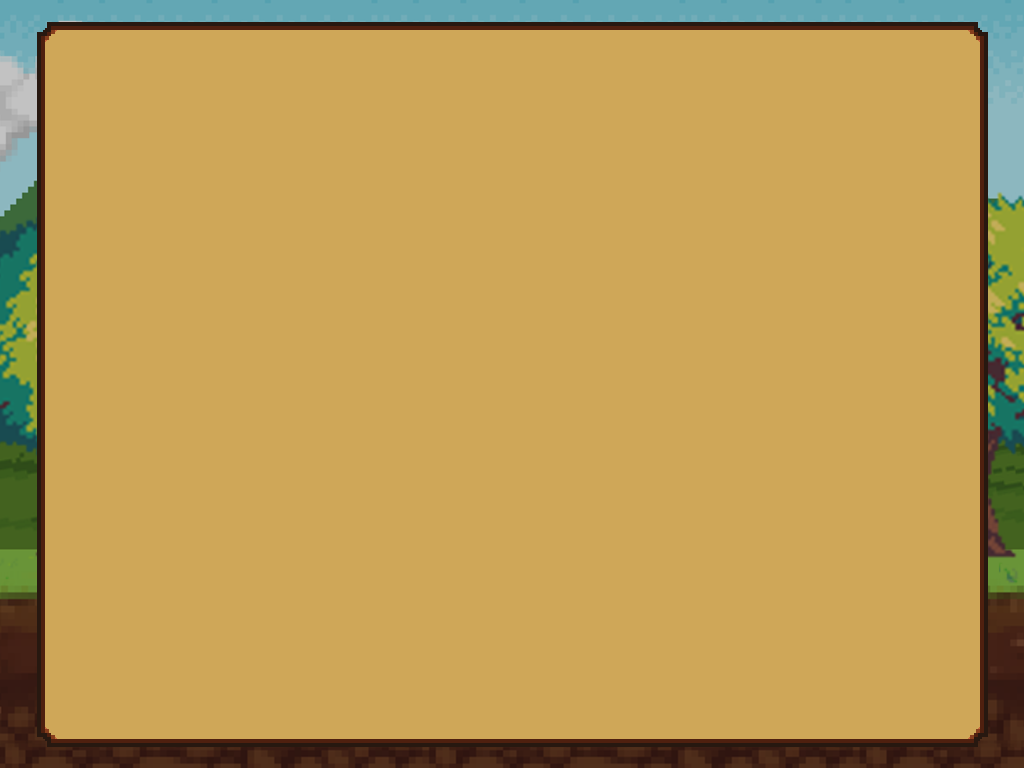
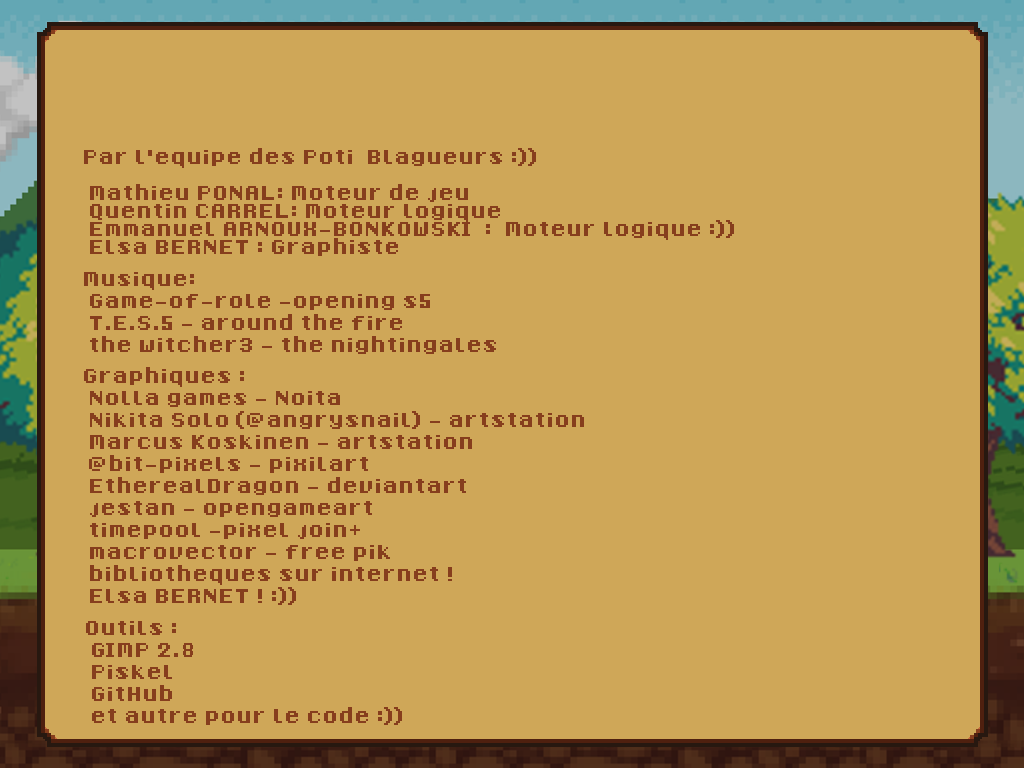
final version

Changed region(s): [[0.0625, 0.1875, 0.7188, 0.7812], [0.0625, 0.8125, 0.4062, 0.9375]]

diff --git a/Credits.py b/Credits.py
@@ -1,5 +1,6 @@
 import pygame.image
 
+from Button import Button
 from Consts import *
 from State import State
 
@@ -11,17 +12,15 @@ class Credits(State):
         self.img = pygame.image.load("Assets/panneaucredits.png")
         self.bg_rect = self.img.get_rect()
         self.bg_rect.center = (WIDTH / 2, HEIGHT / 2)
+        self.close_btn = Button(self.game, 910, 80, "X")
 
     def update(self, dt, actions):
-        if actions["ok"] or actions["esc"]:
+        self.close_btn.update(self.game.events)
+        if actions["ok"] or actions["esc"] or self.close_btn.ispressed:
             self.exit_state()
         self.game.reset_keys()
 
     def render(self, display):
         display.blit(self.img, self.bg_rect)
-        self.game.draw_text(display, "Fait Par: Elsa BERNET, Quentin CARREL, Mathieu PONAL, Emmanuel ARNOUX-BONKOWSKI",
-                            20, 500, 100)
-        self.game.draw_text(display,
-                            "Musique: Game-of-role - opening s5, T.E.S.5 - around the fire, the witcher3 - the nightingales",
-                            20, 500, 120)
-        self.game.draw_text(display, "Sprite: Nolla games - noita ", 20, 500, 140)
+        self.game.draw_text(display, "Credits", 100, WIDTH / 2, 80)
+        self.close_btn.render(display)

diff --git a/state_levels.py b/state_levels.py
@@ -11,7 +11,6 @@ class StateLevel(State):
     def __init__(self, game, cocknb, exp_chosen):
         super().__init__(game)
         self.cocknb = cocknb
-        self.debug_grid = pygame.image.load("Assets/debug_grid.png")
         self.background_img = pygame.image.load("Assets/menubg.png")
         self.background_rect = self.background_img.get_rect()
         self.background_rect.center = (WIDTH / 2, HEIGHT / 2)
@@ -22,7 +21,6 @@ class StateLevel(State):
         self.strat = 0
         self.exp_chosen = exp_chosen
         self.close_btn = Button(self.game, 910, 90, "X")
-        self.grid = -1
         counter = 0
         x = WIDTH / 2
         y = 200
@@ -65,6 +63,4 @@ class StateLevel(State):
                 btn.render(surface)
                 self.game.draw_text(surface, self.descs[counter], 30, x, 230 + counter * 100)
                 counter += 1
-        if self.grid > 0:
-            surface.blit(self.debug_grid, (0, 0))
         self.close_btn.render(surface)

diff --git a/state_last_exp.py b/state_last_exp.py
@@ -10,7 +10,6 @@ class LastExp(State):
         super().__init__(game)
         if summary is None:
             summary = {'ores': [], 'dnas': [], 'level': [], 'party': []}
-        self.debug_grid = pygame.image.load("Assets/alpha_grid.png")
         self.background_img = pygame.image.load("Assets/menubg.png")
         self.background_rect = self.background_img.get_rect()
         self.background_rect.center = (self.game.WIDTH / 2, self.game.HEIGHT / 2)

diff --git a/Rules.py b/Rules.py
@@ -21,4 +21,5 @@ class Rules(State):
 
     def render(self, display):
         display.blit(self.img, self.bg_rect)
+        self.game.draw_text(display, "Regles", 100, WIDTH / 2, 55)
         self.close_btn.render(display)
